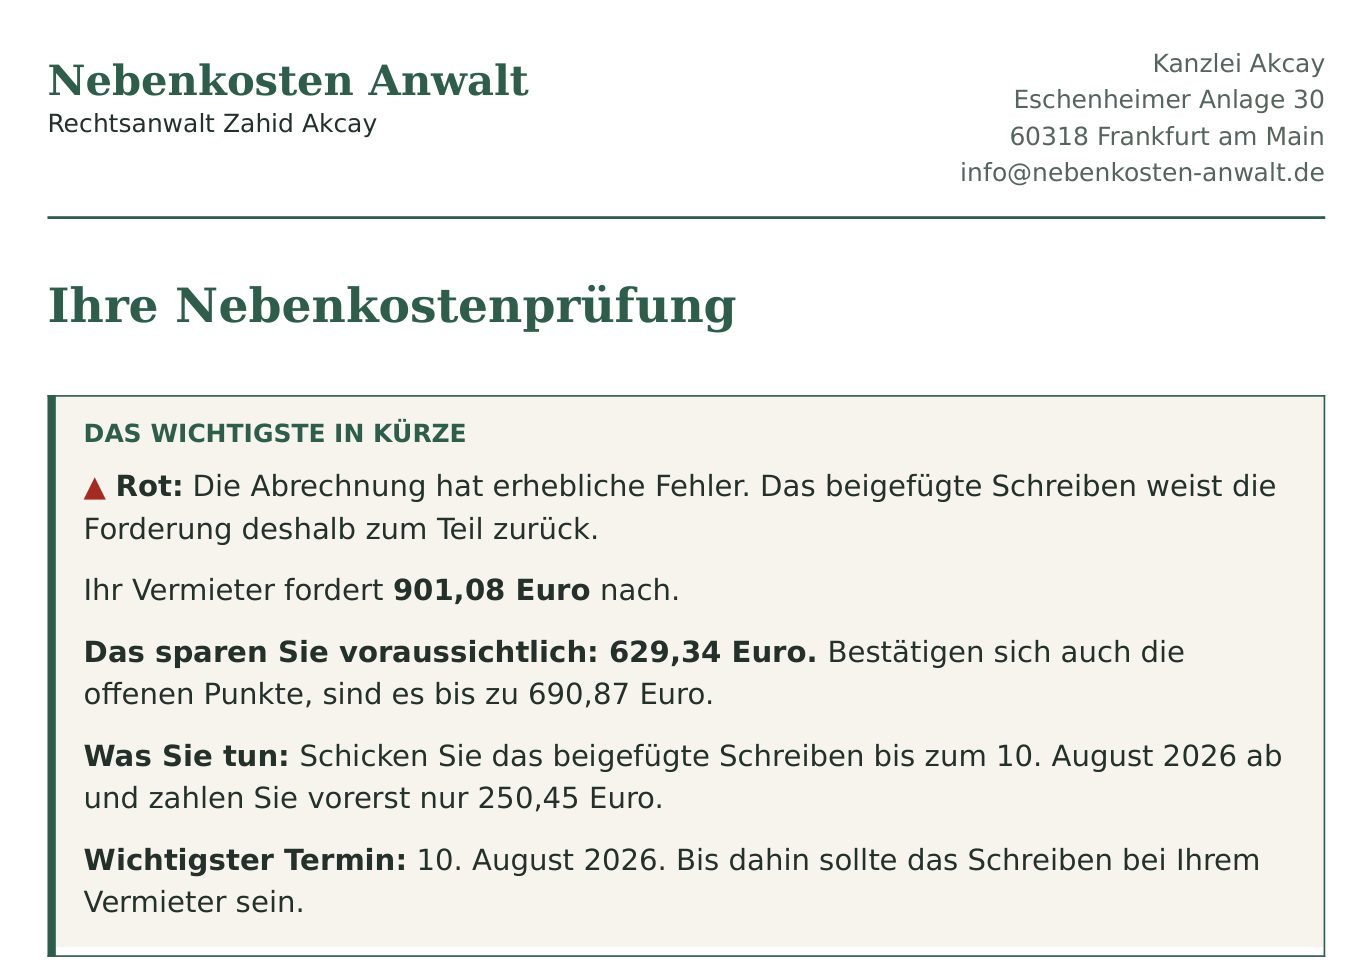
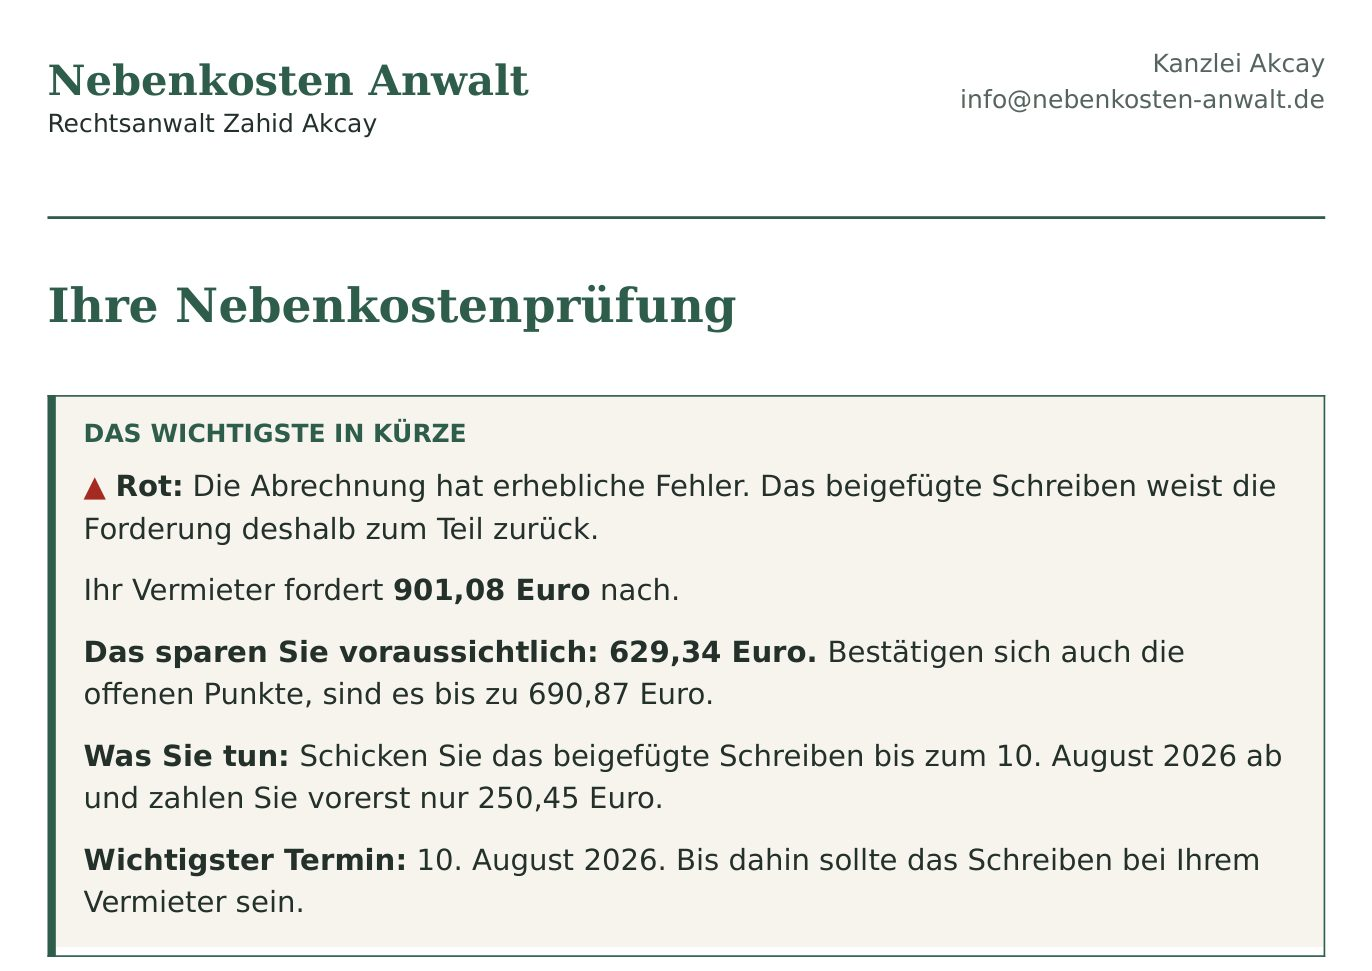
Beispielausschnitt Rechtseinschätzung ohne Kanzleianschrift im Kopf (nur Website-Bild, Weisung Zahid 09.11.2026)

Changed region(s): [[0.7041, 0.0927, 0.9796, 0.1854]]

diff --git a/index.html b/index.html
@@ -1189,7 +1189,7 @@
           welche Fristen für Sie laufen. In normalem Deutsch, nicht in Paragrafen.</p>
           <figure class="deliverable__probe">
             <a class="deliverable__probe-bild" href="assets/probe-rechtseinschaetzung.jpg" target="_blank" rel="noopener" aria-label="Ausschnitt vergrößert öffnen">
-              <img src="assets/probe-rechtseinschaetzung.jpg?v=2" alt="Ausschnitt aus einer Beispiel-Rechtseinschätzung mit erfundenen Daten: Briefkopf, Überschrift „Ihre Nebenkostenprüfung“ und der Kasten „Das Wichtigste in Kürze“ mit Ampel, Nachforderung, voraussichtlicher Ersparnis, Handlungsempfehlung und Termin." width="1372" height="971" loading="lazy" decoding="async">
+              <img src="assets/probe-rechtseinschaetzung.jpg?v=3" alt="Ausschnitt aus einer Beispiel-Rechtseinschätzung mit erfundenen Daten: Briefkopf, Überschrift „Ihre Nebenkostenprüfung“ und der Kasten „Das Wichtigste in Kürze“ mit Ampel, Nachforderung, voraussichtlicher Ersparnis, Handlungsempfehlung und Termin." width="1372" height="971" loading="lazy" decoding="async">
             </a>
             <figcaption><span class="deliverable__stempel">Beispiel mit erfundenen Daten</span> Ausschnitt aus Seite 1 von 6</figcaption>
           </figure>
